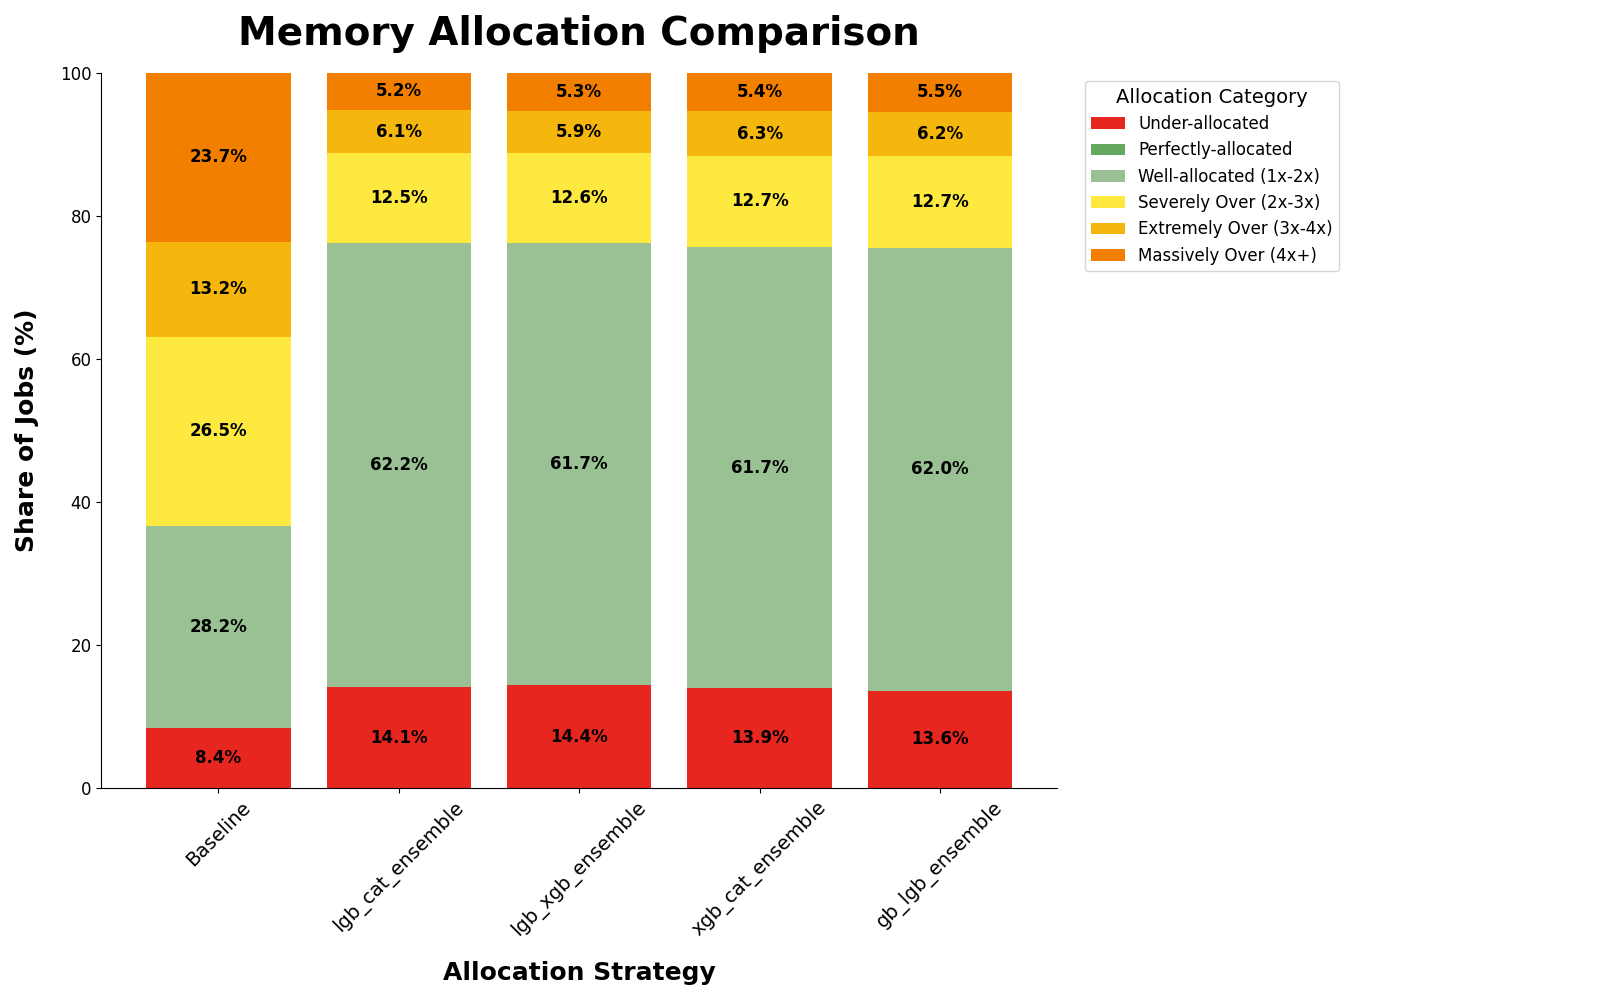
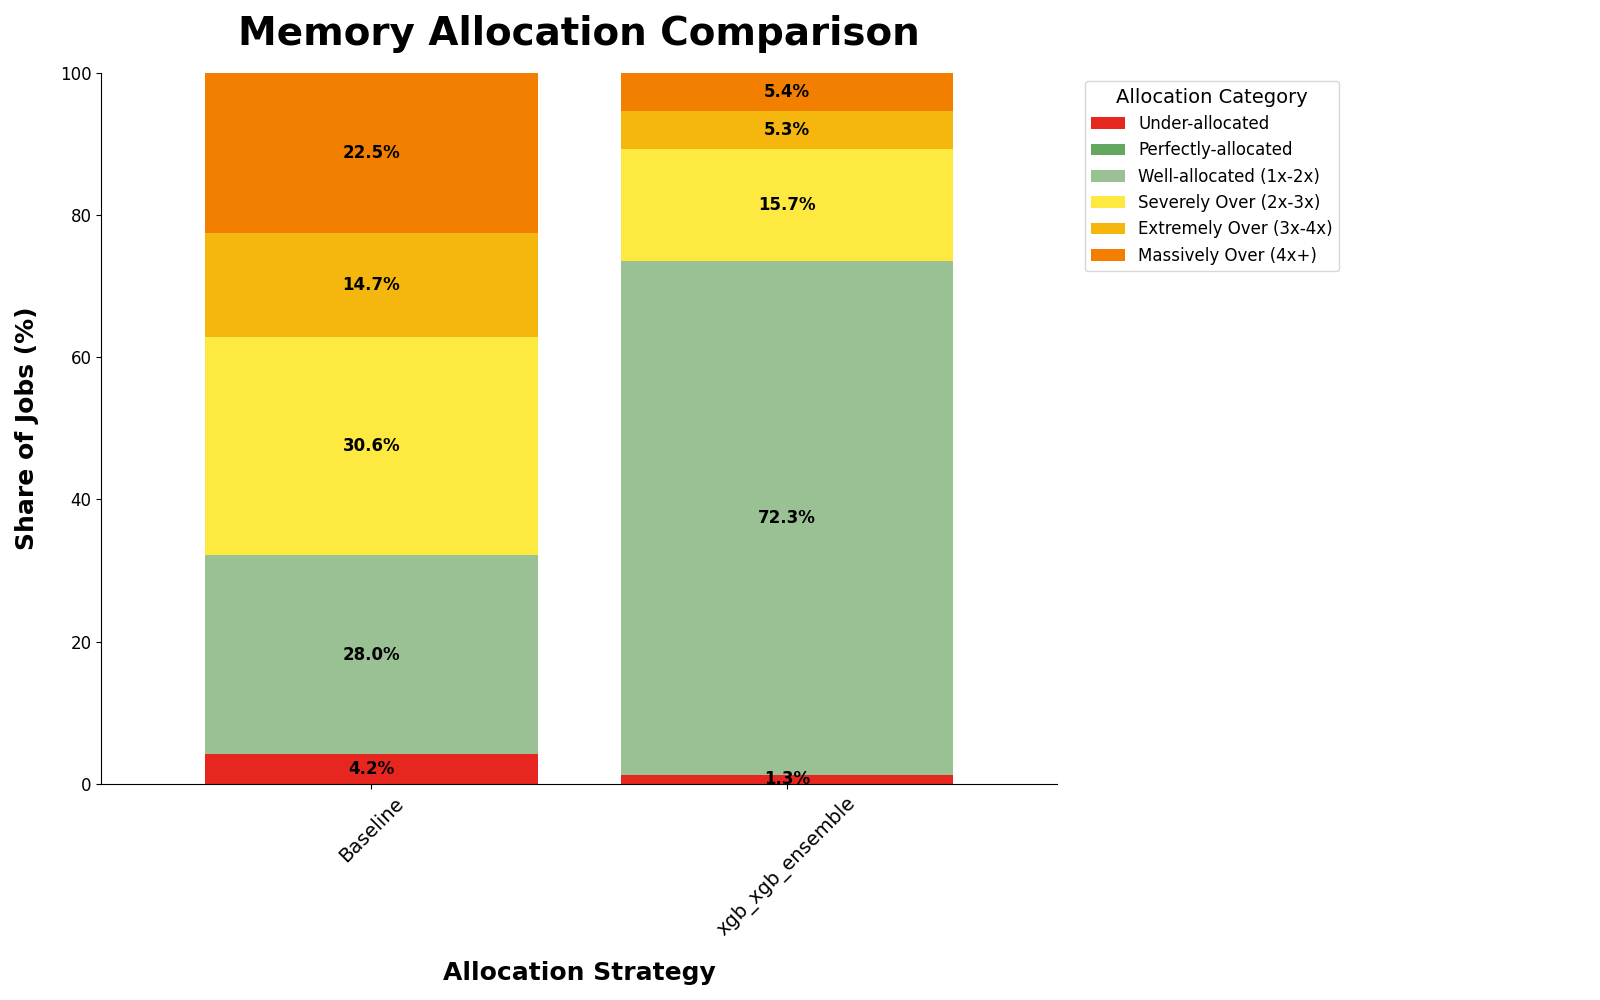
Add XGBoost-XGBoost specialized ensemble model with hyperparameter optimization and fix training pipeline

diff --git a/resource_prediction/models/implementations/quantile_ensemble_variants.py b/resource_prediction/models/implementations/quantile_ensemble_variants.py
@@ -560,3 +560,164 @@ class LGBCatQuantileEnsemble(BasePredictor):
             if hasattr(self, key):
                 setattr(self, key, value)
         return self
+
+
+class XGBXGBQuantileEnsemble(BasePredictor):
+    """
+    An ensemble regressor combining two specialized XGBoost quantile models.
+    
+    This model uses two XGBoost models with different configurations:
+    - Conservative model: Higher quantile, deeper trees, fewer estimators (for complex patterns)
+    - Aggressive model: Lower quantile, shallower trees, more estimators (for broad patterns)
+    
+    Takes the maximum prediction from both models and applies a safety factor.
+    """
+    
+    def __init__(
+        self, 
+        alpha: float = 0.95, 
+        safety: float = 1.05, 
+        conservative_params: Optional[Dict[str, Any]] = None, 
+        aggressive_params: Optional[Dict[str, Any]] = None,
+        random_state: int = 42,
+        # Individual parameters for conservative model
+        conservative_quantile: Optional[float] = None,
+        conservative_n_estimators: Optional[int] = None,
+        conservative_max_depth: Optional[int] = None,
+        conservative_lr: Optional[float] = None,
+        # Individual parameters for aggressive model  
+        aggressive_quantile: Optional[float] = None,
+        aggressive_n_estimators: Optional[int] = None,
+        aggressive_max_depth: Optional[int] = None,
+        aggressive_lr: Optional[float] = None,
+        **kwargs
+    ):
+        """
+        Initialize the XGBoost + XGBoost Specialized Quantile Ensemble Predictor.
+        
+        Args:
+            alpha: Base quantile level (default: 0.95)
+            safety: Safety multiplier applied to final predictions (default: 1.05)
+            conservative_params: Parameters for conservative XGBoost model
+            aggressive_params: Parameters for aggressive XGBoost model
+            random_state: Random state for reproducibility
+            **kwargs: Additional parameters (ignored gracefully)
+        """
+        self.alpha = alpha
+        self.safety = safety
+        self.random_state = random_state
+        
+        # Build conservative XGBoost params (higher quantile, deeper trees, fewer estimators)
+        final_conservative_params = {
+            "objective": "reg:quantileerror", 
+            "quantile_alpha": conservative_quantile if conservative_quantile is not None else min(0.99, alpha + 0.03),
+            "n_jobs": 1, 
+            "random_state": random_state
+        }
+        if conservative_params:
+            final_conservative_params.update(conservative_params)
+        
+        # Override with individual parameters if provided
+        if conservative_n_estimators is not None:
+            final_conservative_params["n_estimators"] = conservative_n_estimators
+        if conservative_max_depth is not None:
+            final_conservative_params["max_depth"] = conservative_max_depth
+        if conservative_lr is not None:
+            final_conservative_params["learning_rate"] = conservative_lr
+        if conservative_quantile is not None:
+            final_conservative_params["quantile_alpha"] = conservative_quantile
+            
+        self.conservative_xgb = xgb.XGBRegressor(**final_conservative_params)
+        
+        # Build aggressive XGBoost params (lower quantile, shallower trees, more estimators)
+        final_aggressive_params = {
+            "objective": "reg:quantileerror", 
+            "quantile_alpha": aggressive_quantile if aggressive_quantile is not None else max(0.85, alpha - 0.05),
+            "n_jobs": 1, 
+            "random_state": random_state
+        }
+        if aggressive_params:
+            final_aggressive_params.update(aggressive_params)
+        
+        # Override with individual parameters if provided
+        if aggressive_n_estimators is not None:
+            final_aggressive_params["n_estimators"] = aggressive_n_estimators
+        if aggressive_max_depth is not None:
+            final_aggressive_params["max_depth"] = aggressive_max_depth
+        if aggressive_lr is not None:
+            final_aggressive_params["learning_rate"] = aggressive_lr
+        if aggressive_quantile is not None:
+            final_aggressive_params["quantile_alpha"] = aggressive_quantile
+            
+        self.aggressive_xgb = xgb.XGBRegressor(**final_aggressive_params)
+        
+        self.columns = None
+    
+    def _encode(self, X: pd.DataFrame, fit: bool = False) -> pd.DataFrame:
+        """One-hot encode categorical features and align columns."""
+        Xd = pd.get_dummies(X, drop_first=True, dummy_na=False)
+        
+        if Xd.columns.duplicated().any():
+            Xd = Xd.loc[:, ~Xd.columns.duplicated()]
+        
+        if fit:
+            self.columns = Xd.columns.tolist()
+        else:
+            if self.columns is None:
+                raise ValueError("Model must be fitted before making predictions")
+            
+            missing_cols = set(self.columns) - set(Xd.columns)
+            for col in missing_cols:
+                Xd[col] = 0
+            
+            Xd = Xd[self.columns]
+        
+        return Xd.astype(float)
+    
+    def fit(self, X: pd.DataFrame, y: pd.Series, **fit_params) -> None:
+        """Fit both specialized XGBoost regressors on the training data."""
+        Xd = self._encode(X, fit=True)
+        
+        # Fit both models with quiet output
+        xgb_fit_params = {"verbose": False}
+        xgb_fit_params.update(fit_params)
+        
+        self.conservative_xgb.fit(Xd, y, **xgb_fit_params)
+        self.aggressive_xgb.fit(Xd, y, **xgb_fit_params)
+    
+    def predict(self, X: pd.DataFrame) -> np.ndarray:
+        """Predict by taking the maximum of both specialized models and applying safety factor."""
+        Xd = self._encode(X, fit=False)
+        
+        conservative_preds = self.conservative_xgb.predict(Xd)
+        aggressive_preds = self.aggressive_xgb.predict(Xd)
+        preds = np.maximum(conservative_preds, aggressive_preds)
+        
+        return preds * self.safety
+    
+    def get_params(self) -> Dict[str, Any]:
+        """Get model parameters."""
+        try:
+            conservative_params = self.conservative_xgb.get_params() if hasattr(self.conservative_xgb, 'get_params') else {}
+        except Exception:
+            conservative_params = {}
+            
+        try:
+            aggressive_params = self.aggressive_xgb.get_params() if hasattr(self.aggressive_xgb, 'get_params') else {}
+        except Exception:
+            aggressive_params = {}
+            
+        return {
+            "alpha": self.alpha,
+            "safety": self.safety,
+            "random_state": self.random_state,
+            "conservative_params": conservative_params,
+            "aggressive_params": aggressive_params
+        }
+    
+    def set_params(self, **params) -> 'XGBXGBQuantileEnsemble':
+        """Set model parameters."""
+        for key, value in params.items():
+            if hasattr(self, key):
+                setattr(self, key, value)
+        return self

diff --git a/resource_prediction/config.py b/resource_prediction/config.py
@@ -109,6 +109,11 @@ class Config:
             "base_model": "lgb_cat_quantile_ensemble",
             "class": _import_model_class("resource_prediction.models", "LGBCatQuantileEnsemble"),
         },
+        "xgb_xgb_ensemble": {
+            "type": "regression",
+            "base_model": "xgb_xgb_quantile_ensemble",
+            "class": _import_model_class("resource_prediction.models", "XGBXGBQuantileEnsemble"),
+        },
         "xgboost_classification": {
             "type": "classification",
             "base_model": "xgboost",
@@ -268,6 +273,34 @@ class Config:
                 "type": "float",
                 "log": True,
                 "default": 0.05,
+            },
+        },
+        # XGBoost + XGBoost Specialized Ensemble
+        "xgb_xgb_ensemble": {
+            "use_quant_feats": {"choices": [True, False], "default": True},
+            "alpha": {"choices": [0.90, 0.95, 0.98, 0.99], "default": 0.95},
+            "safety": {"min": 1.00, "max": 1.15, "type": "float", "default": 1.05},
+            # Conservative model parameters (higher quantile, deeper trees, fewer estimators)
+            "conservative_quantile": {"choices": [0.95, 0.98, 0.99], "default": 0.98},
+            "conservative_n_estimators": {"min": 100, "max": 400, "type": "int", "default": 200},
+            "conservative_max_depth": {"min": 6, "max": 12, "type": "int", "default": 8},
+            "conservative_lr": {
+                "min": 0.01,
+                "max": 0.10,
+                "type": "float",
+                "log": True,
+                "default": 0.03,
+            },
+            # Aggressive model parameters (lower quantile, shallower trees, more estimators)
+            "aggressive_quantile": {"choices": [0.85, 0.90, 0.95], "default": 0.90},
+            "aggressive_n_estimators": {"min": 300, "max": 800, "type": "int", "default": 500},
+            "aggressive_max_depth": {"min": 3, "max": 7, "type": "int", "default": 5},
+            "aggressive_lr": {
+                "min": 0.03,
+                "max": 0.20,
+                "type": "float",
+                "log": True,
+                "default": 0.08,
             },
         },
         # XGBoost Regression - only XGBoost regression parameters

diff --git a/resource_prediction/training/trainer.py b/resource_prediction/training/trainer.py
@@ -146,10 +146,20 @@ class Trainer:
                 
             print(f"Training {family_name} with default parameters...")
             
-            # Get default parameters
-            base_model = metadata['base_model']
-            task_type = metadata['type']
-            default_params = self.config.get_default_params(base_model, task_type)
+            # Get default parameters for the family
+            family_config = self.config.HYPERPARAMETER_CONFIGS.get(family_name, {})
+            default_params = {}
+            for param, config in family_config.items():
+                if "default" in config:
+                    default_params[param] = config["default"]
+                elif "choices" in config:
+                    default_params[param] = config["choices"][0]
+                elif config.get("type") == "int":
+                    # Use the default value, or midpoint if no default
+                    default_params[param] = config.get("default", (config["min"] + config["max"]) // 2)
+                elif config.get("type") == "float":
+                    # Use the default value, or midpoint if no default
+                    default_params[param] = config.get("default", (config["min"] + config["max"]) / 2)
             
             # Evaluate the model with default parameters using the same evaluation logic as hyperparameter search
             from resource_prediction.training.hyperparameter import OptunaOptimizer
@@ -173,7 +183,7 @@ class Trainer:
             
             # Evaluate the model
             try:
-                score = optimizer._objective(trial, base_model, task_type)
+                score = optimizer._objective(trial, family_name)
                 
                 # Create a mock study for compatibility with existing evaluation code
                 mock_trial = MockTrial(default_params, score)

diff --git a/resource_prediction/models/__init__.py b/resource_prediction/models/__init__.py
@@ -12,7 +12,8 @@ from .implementations.quantile_ensemble_variants import (
     LGBXGBQuantileEnsemble,
     GBLGBQuantileEnsemble,
     XGBCatQuantileEnsemble,
-    LGBCatQuantileEnsemble
+    LGBCatQuantileEnsemble,
+    XGBXGBQuantileEnsemble
 )
 from .implementations.sizey.sizey import SizeyPredictor
 from .implementations.sklearn_models import LogisticRegression, RandomForestClassifier
@@ -26,6 +27,7 @@ __all__ = [
     "GBLGBQuantileEnsemble",
     "XGBCatQuantileEnsemble",
     "LGBCatQuantileEnsemble",
+    "XGBXGBQuantileEnsemble",
     "XGBoostRegressor",
     "XGBoostClassifier",
     "LightGBMRegressor",

diff --git a/resource_prediction/training/hyperparameter.py b/resource_prediction/training/hyperparameter.py
@@ -78,7 +78,7 @@ class OptunaOptimizer:
 
     def _objective(self, trial, family_name):
         """The core objective function for Optuna to minimize."""
-        params = self.config.get_search_space(trial, family_name)
+        params = Config.get_search_space(trial, family_name)
         use_quant_feats = params.pop("use_quant_feats")
         X_trial = self._get_feature_set(use_quant_feats)
         
